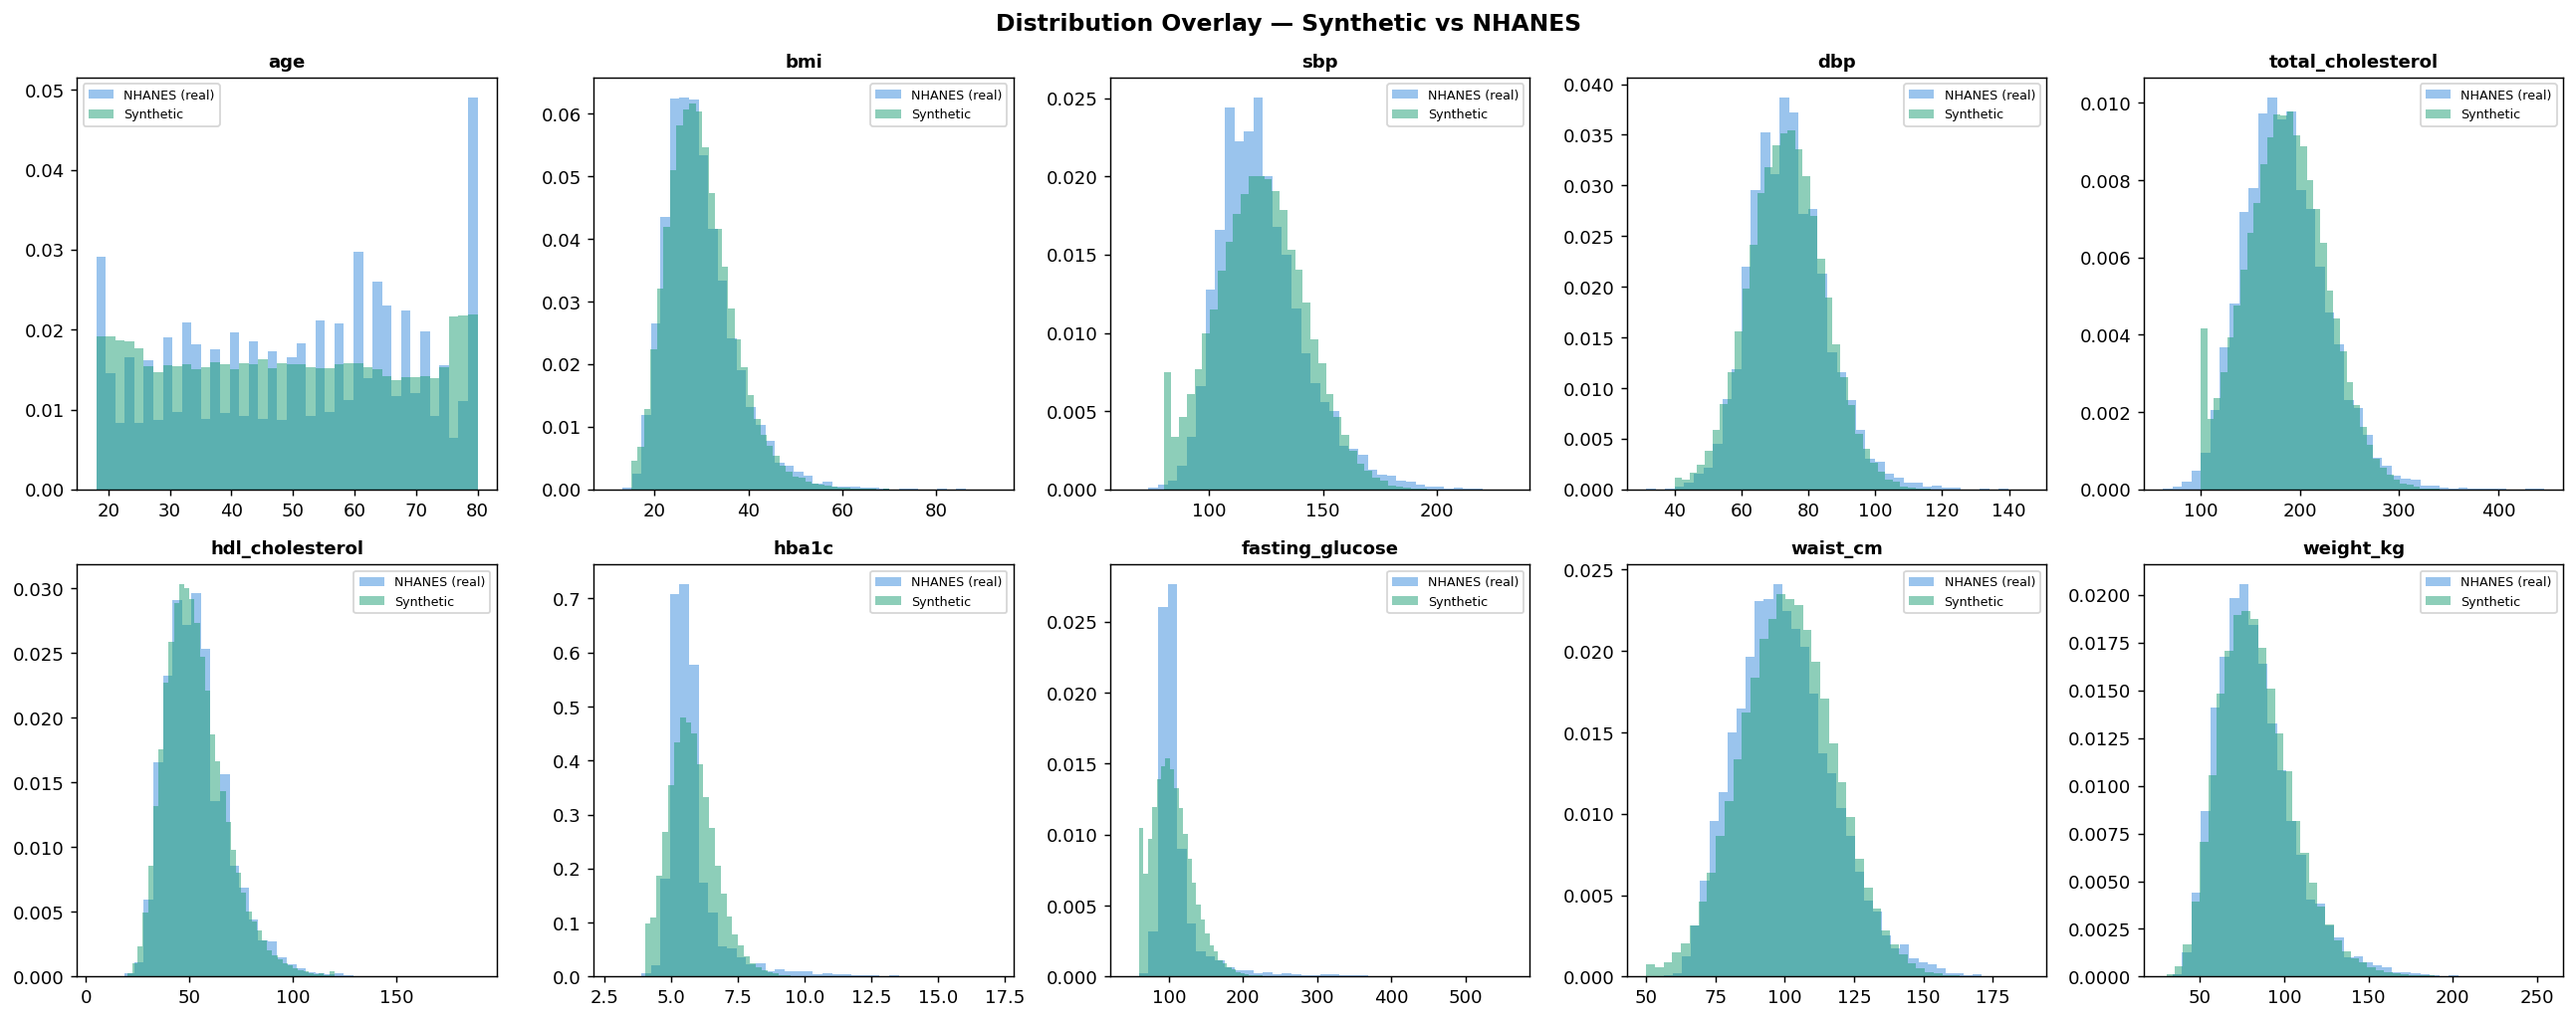
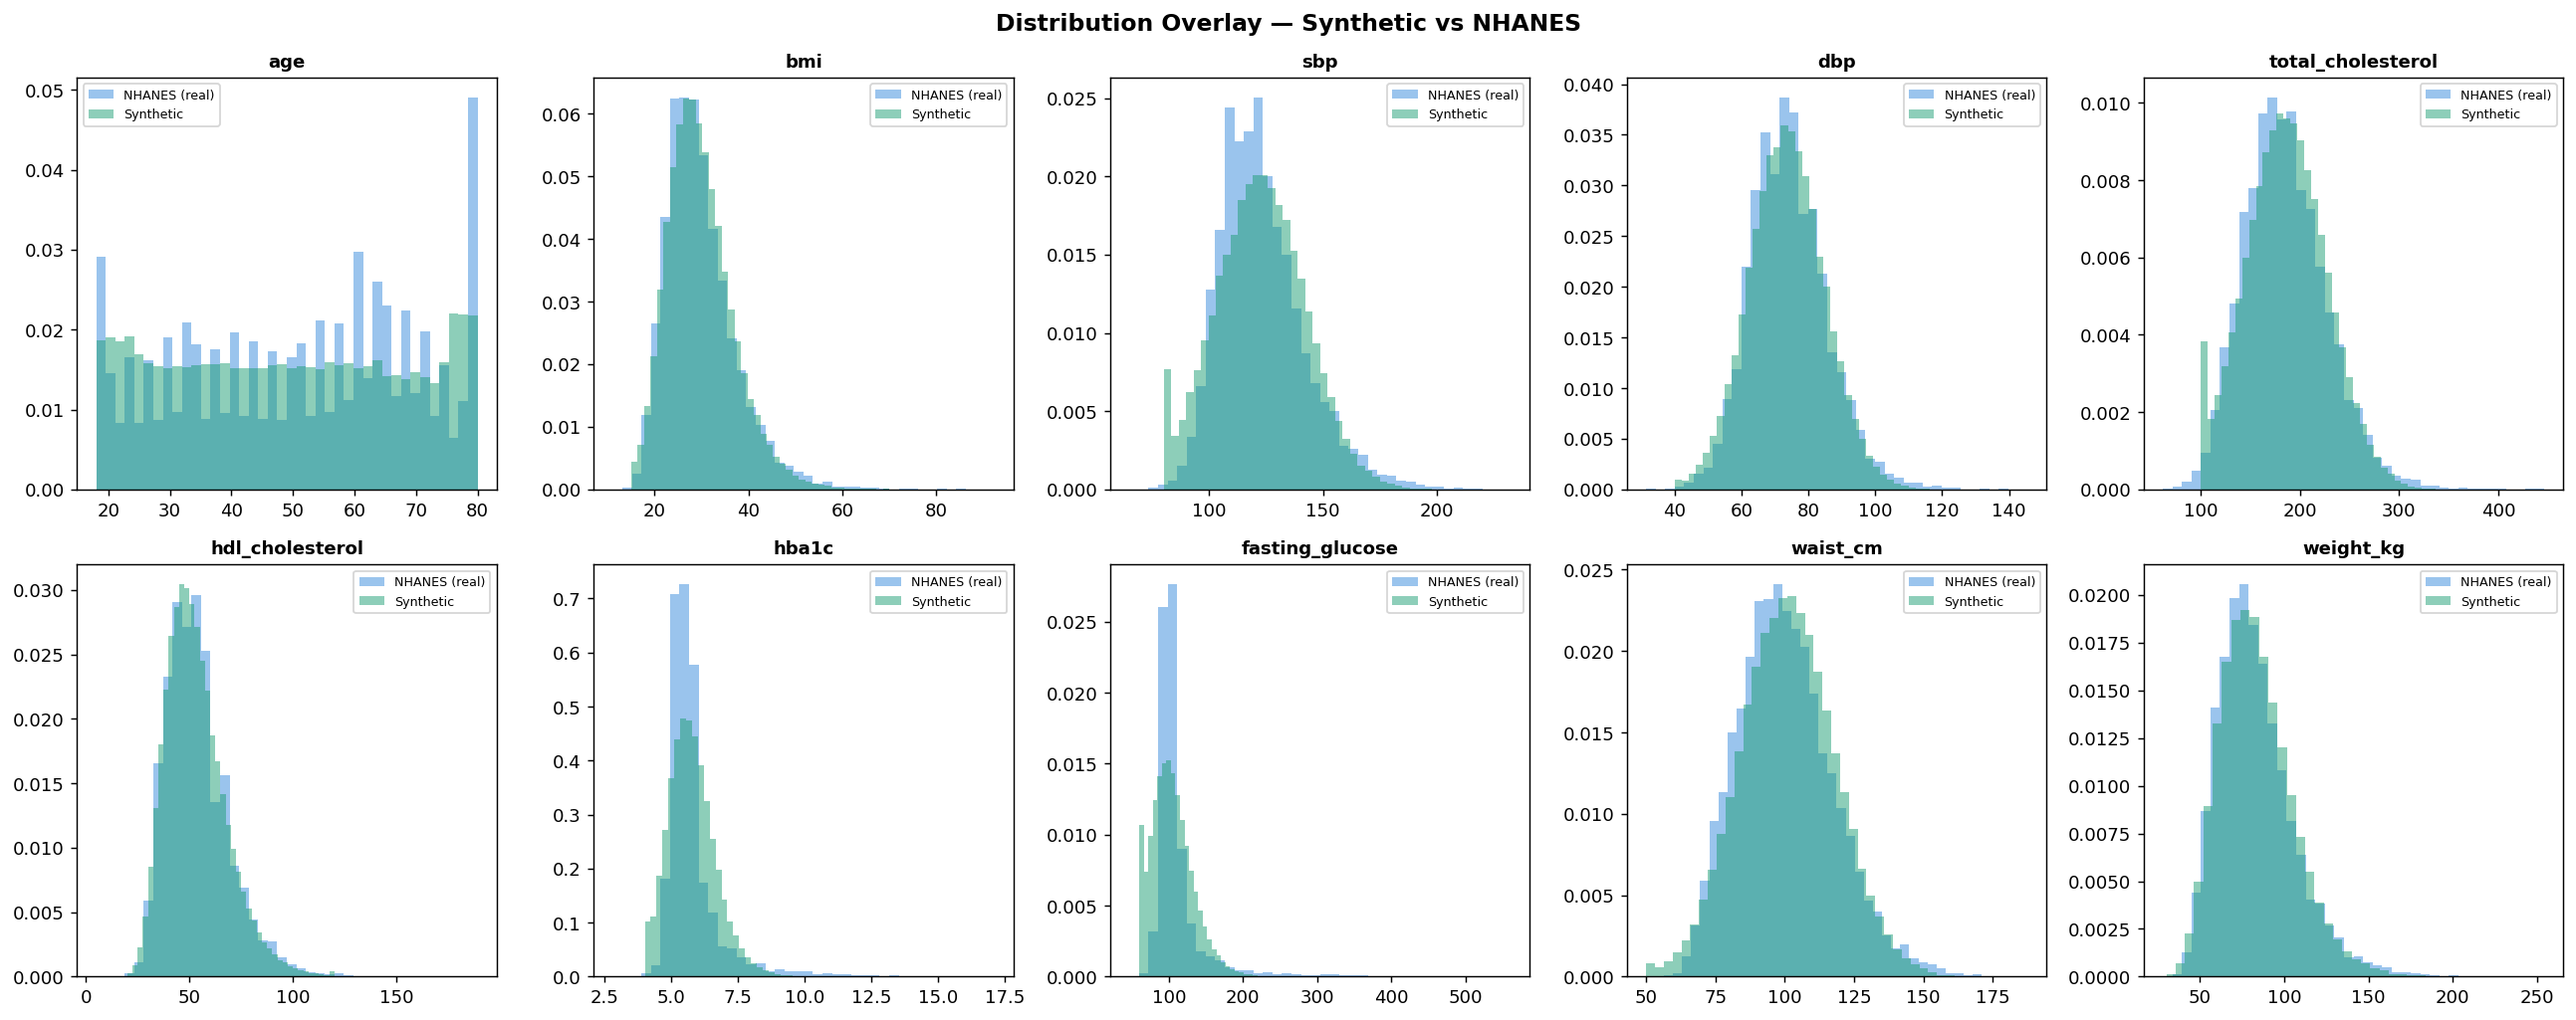
feat: week 5 complete — colorectal cancer label (SEER), Hotelling T2 validation, 12/12 labels passing, JSONL splits updated

diff --git a/src/generator/generator.py b/src/generator/generator.py
@@ -61,15 +61,20 @@ rng  = np.random.default_rng(SEED)
 def load_configs():
     schema_path = CONFIG_DIR / "feature_schema.yaml"
     corr_path   = CONFIG_DIR / "correlation_matrix.yaml"
+    seer_path   = CONFIG_DIR / "seer_colorectal_rates.yaml"
 
     with open(schema_path) as f:
         schema = yaml.safe_load(f)
     with open(corr_path) as f:
         corr   = yaml.safe_load(f)
+    with open(seer_path) as f:
+        seer   = yaml.safe_load(f)
 
     log.info(f"Loaded feature schema: {len(schema)} features")
     log.info(f"Loaded correlation matrices: {len(corr)} strata")
-    return schema, corr
+    log.info(f"Loaded SEER colorectal rates: "
+             f"{len(seer['colorectal_cancer']['rates'])} strata")
+    return schema, corr, seer
 
 
 # ══════════════════════════════════════════════════════════════════════════
@@ -341,7 +346,66 @@ def sample_binary_features(
 
     return features
 
+def colorectal_cancer_risk(
+    patient: Dict,
+    seer: Dict,
+    rng: np.random.Generator,
+) -> bool:
+    """
+    Assign colorectal cancer label using SEER age/sex/race-specific
+    annual incidence rates. Converts annual rate to 10-year risk.
+    """
+    age  = patient.get("age", 50)
+    sex  = "male" if patient.get("sex") == "M" else "female"
+    race = patient.get("race", "nh_white")
 
+    # Map generator race to SEER race
+    race_map = {
+        "nh_white":          "white",
+        "nh_black":          "black",
+        "hispanic":          "hispanic",
+        "nh_asian":          "other",
+        "other_multiracial": "other",
+    }
+    seer_race = race_map.get(race, "white")
+
+    # Map age to generator age group
+    if age < 50:
+        age_group = "18_49"
+    elif age < 65:
+        age_group = "50_64"
+    elif age < 75:
+        age_group = "65_74"
+    else:
+        age_group = "75_plus"
+
+    # Look up annual incidence rate
+    key = f"{age_group}_{sex}_{seer_race}"
+    rates = seer["colorectal_cancer"]["rates"]
+    entry = rates.get(key, rates.get(f"{age_group}_{sex}_white", {}))
+    annual_prob = entry.get("annual_prob", 0.002)
+
+    # Convert annual probability to 10-year cumulative risk
+    # P(at least one event in 10 years) = 1 - (1 - p_annual)^10
+    risk_10yr = 1 - (1 - annual_prob) ** 10
+
+    # Apply risk modifiers
+    if patient.get("family_history_cancer", False):
+        risk_10yr *= 1.5   # 1.5x risk with first-degree family history
+    if patient.get("smoker", False):
+        risk_10yr *= 1.15   # 15% increased risk
+    if patient.get("bmi", 25) >= 30:
+        risk_10yr *= 1.1   # 10% increased risk with obesity
+    if patient.get("physical_activity_low", False):
+        risk_10yr *= 1.08  # 8% increased risk sedentary lifestyle
+    if patient.get("alcohol_use", False):
+        risk_10yr *= 1.05   # 5% increased risk
+
+    # Apply population-level calibration scalar
+    risk_10yr *= 0.30      # scale down to hit ~4.5% prevalence
+    
+    risk_10yr = np.clip(risk_10yr, 0, 1)
+    return bool(rng.random() < risk_10yr)
 # ══════════════════════════════════════════════════════════════════════════
 # LABEL ASSIGNMENT
 # ══════════════════════════════════════════════════════════════════════════
@@ -349,6 +413,7 @@ def sample_binary_features(
 def assign_labels(
     patient: Dict,
     rng: np.random.Generator,
+    seer: Dict = None,
 ) -> Dict[str, Any]:
     """
     Evaluate all risk models and assign condition labels via Bernoulli draws.
@@ -454,9 +519,16 @@ def assign_labels(
         if rng.random() < 0.15:
             labels["osa"] = True
 
+    # Colorectal cancer — SEER-calibrated 10-year risk
+    if seer is not None:
+        labels["colorectal_cancer"] = colorectal_cancer_risk(
+            patient, seer, rng)
+    else:
+        labels["colorectal_cancer"] = False
+
     # Charlson comorbidity index
     charlson_input = {**patient, **labels}
-    labels["charlson_index"]  = charlson_index(charlson_input)
+    labels["charlson_index"] = charlson_index(charlson_input)
 
     return labels
 
@@ -469,6 +541,7 @@ def generate_patient(
     schema: Dict,
     corr_config: Dict,
     rng: np.random.Generator,
+    seer: Dict = None,
 ) -> Dict[str, Any]:
     """Generate one complete synthetic patient record."""
 
@@ -485,7 +558,7 @@ def generate_patient(
     patient = {**demo, **continuous, **binary}
 
     # Step 4 — Label assignment
-    labels = assign_labels(patient, rng)
+    labels = assign_labels(patient, rng, seer=seer)
 
     # Final record
     record = {**patient, **labels}
@@ -500,6 +573,7 @@ def generate_batch(
     n: int,
     schema: Dict,
     corr_config: Dict,
+    seer: Dict = None,
     seed: int = SEED,
     n_jobs: int = -1,
 ) -> pd.DataFrame:
@@ -528,7 +602,7 @@ def generate_batch(
 
     def worker(chunk_n: int, child_seed) -> List[Dict]:
         worker_rng = np.random.default_rng(child_seed)
-        return [generate_patient(schema, corr_config, worker_rng)
+        return [generate_patient(schema, corr_config, worker_rng, seer=seer)
                 for _ in range(chunk_n)]
 
     results = Parallel(n_jobs=n_jobs, backend="loky")(
@@ -568,6 +642,8 @@ def print_prevalence_report(df: pd.DataFrame):
         ("metabolic_syndrome",df["metabolic_syndrome"].mean(), 0.33, "ATP III"),
         ("hypothyroidism",    df["hypothyroidism"].mean(),     0.05, "NHANES"),
         ("prediabetes", df["prediabetes"].mean(), 0.38, "CDC 2023"),
+        ("colorectal_cancer",
+         df["colorectal_cancer"].mean(),    0.045, "SEER 2023"),
     ]
 
     log.info(f"  {'Label':<22} {'Synthetic':>9} {'Benchmark':>10} "
@@ -590,9 +666,9 @@ def main(n: int = 10_000):
     log.info("GoEMed Synthetic Patient Generator")
     log.info("=" * 55)
 
-    schema, corr_config = load_configs()
+    schema, corr_config, seer = load_configs()
 
-    df = generate_batch(n=n, schema=schema, corr_config=corr_config)
+    df = generate_batch(n=n, schema=schema, corr_config=corr_config, seer=seer)
 
     # Prevalence validation
     print_prevalence_report(df)

diff --git a/src/validation/validate_synthetic.py b/src/validation/validate_synthetic.py
@@ -175,6 +175,104 @@ def propensity_score_test(
              f"(target: < 0.65, ideal: ~0.55)")
     return float(auroc)
 
+def hotelling_t2_test(
+    synth: pd.DataFrame,
+    real: pd.DataFrame,
+) -> dict:
+    """
+    Hotelling's T² test — multivariate generalization of the two-sample t-test.
+    Tests whether synthetic and real data have equal multivariate means.
+    Applied Multivariate Analysis (Stat coursework application).
+
+    H0: mu_synthetic == mu_real (multivariate means are equal)
+    A large T² statistic indicates the synthetic data's multivariate
+    mean differs significantly from the real data.
+    """
+    log.info("\n── Hotelling's T² Test (Multivariate Mean Comparison) ──")
+
+    feats = [f for f in CONTINUOUS_FEATURES
+             if f in synth.columns and f in real.columns]
+
+    # Sample equal sizes for balanced test
+    n1 = min(len(synth), 5000)
+    n2 = min(len(real), 5000)
+
+    S = synth[feats].dropna().sample(n1, random_state=42).values
+    R = real[feats].dropna().sample(
+        min(n2, len(real[feats].dropna())),
+        random_state=42).values
+
+    n1, n2, p = len(S), len(R), len(feats)
+
+    # Compute means
+    mean_s = np.mean(S, axis=0)
+    mean_r = np.mean(R, axis=0)
+    diff   = mean_s - mean_r
+
+    # Pooled covariance matrix
+    cov_s  = np.cov(S.T)
+    cov_r  = np.cov(R.T)
+    pooled = ((n1 - 1) * cov_s + (n2 - 1) * cov_r) / (n1 + n2 - 2)
+
+    # Add ridge for numerical stability
+    pooled += 1e-6 * np.eye(p)
+
+    # Hotelling's T² statistic
+    pooled_inv = np.linalg.inv(pooled)
+    t2 = (n1 * n2) / (n1 + n2) * diff @ pooled_inv @ diff
+
+    # Convert to F statistic
+    f_stat = t2 * (n1 + n2 - p - 1) / ((n1 + n2 - 2) * p)
+    df1    = p
+    df2    = n1 + n2 - p - 1
+
+    from scipy.stats import f as f_dist
+    p_value = 1 - f_dist.cdf(f_stat, df1, df2)
+
+    # Normalized T² — divide by sample size for interpretability
+    t2_normalized = t2 / (n1 + n2)
+
+    log.info(f"  Hotelling's T²:     {t2:.2f}")
+    log.info(f"  T² (normalized):    {t2_normalized:.4f}")
+    log.info(f"  F-statistic:        {f_stat:.4f}")
+    log.info(f"  p-value:            {p_value:.6f}")
+    log.info(f"  Degrees of freedom: ({df1}, {df2})")
+    log.info(f"  Features tested:    {p}")
+
+    # Per-feature mean differences for interpretability
+    log.info(f"\n  Per-feature mean differences (synthetic - real):")
+    log.info(f"  {'Feature':<22} {'Synth Mean':>12} "
+             f"{'Real Mean':>12} {'Diff':>10} {'Diff %':>8}")
+    log.info("  " + "-" * 68)
+    for i, feat in enumerate(feats):
+        s_mean = mean_s[i]
+        r_mean = mean_r[i]
+        d      = diff[i]
+        pct    = (d / r_mean * 100) if r_mean != 0 else 0
+        flag   = "⚠ " if abs(pct) > 5 else "✅"
+        log.info(f"  {flag} {feat:<20} {s_mean:>12.2f} "
+                 f"{r_mean:>12.2f} {d:>10.2f} {pct:>7.1f}%")
+
+    # Interpretation
+    if p_value < 0.05:
+        log.info(f"\n  ⚠  T² test: multivariate means differ significantly "
+                 f"(p={p_value:.4f})")
+        log.info(f"  Note: with large n, T² is sensitive to small differences.")
+        log.info(f"  Normalized T²={t2_normalized:.4f} — "
+                 f"{'acceptable' if t2_normalized < 1.0 else 'review needed'}")
+    else:
+        log.info(f"\n  ✅ T² test: multivariate means not significantly "
+                 f"different (p={p_value:.4f})")
+
+    return {
+        "t2_statistic":   round(float(t2), 4),
+        "t2_normalized":  round(float(t2_normalized), 4),
+        "f_statistic":    round(float(f_stat), 4),
+        "p_value":        round(float(p_value), 6),
+        "n_features":     p,
+        "n_synthetic":    n1,
+        "n_real":         n2,
+    }
 
 # ══════════════════════════════════════════════════════════════════════════
 # 4. DISTRIBUTION OVERLAY PLOTS
@@ -273,6 +371,7 @@ def main():
     ks_results   = run_ks_tests(synth, real)
     frob_norm    = compare_correlation_matrices(synth, real)
     propensity   = propensity_score_test(synth, real)
+    t2_results   = hotelling_t2_test(synth, real)
     plot_distribution_overlays(synth, real)
     check_demographic_composition(synth)
 

diff --git a/src/models/serialize_prompts.py b/src/models/serialize_prompts.py
@@ -44,7 +44,7 @@ np.random.seed(SEED)
 LABEL_COLS = [
     "hypertension", "diabetes", "cvd_risk", "ckd",
     "osa", "depression", "copd", "metabolic_syndrome",
-    "hypothyroidism", "prediabetes",
+    "hypothyroidism", "prediabetes", "colorectal_cancer",
 ]
 
 # ── Human-readable label names ─────────────────────────────────────────────
@@ -59,6 +59,7 @@ LABEL_NAMES = {
     "metabolic_syndrome": "METABOLIC_SYNDROME",
     "hypothyroidism":     "HYPOTHYROIDISM",
     "prediabetes":        "PREDIABETES",
+    "colorectal_cancer":  "COLORECTAL_CANCER",
 }
 
 # ── Race display names ─────────────────────────────────────────────────────
